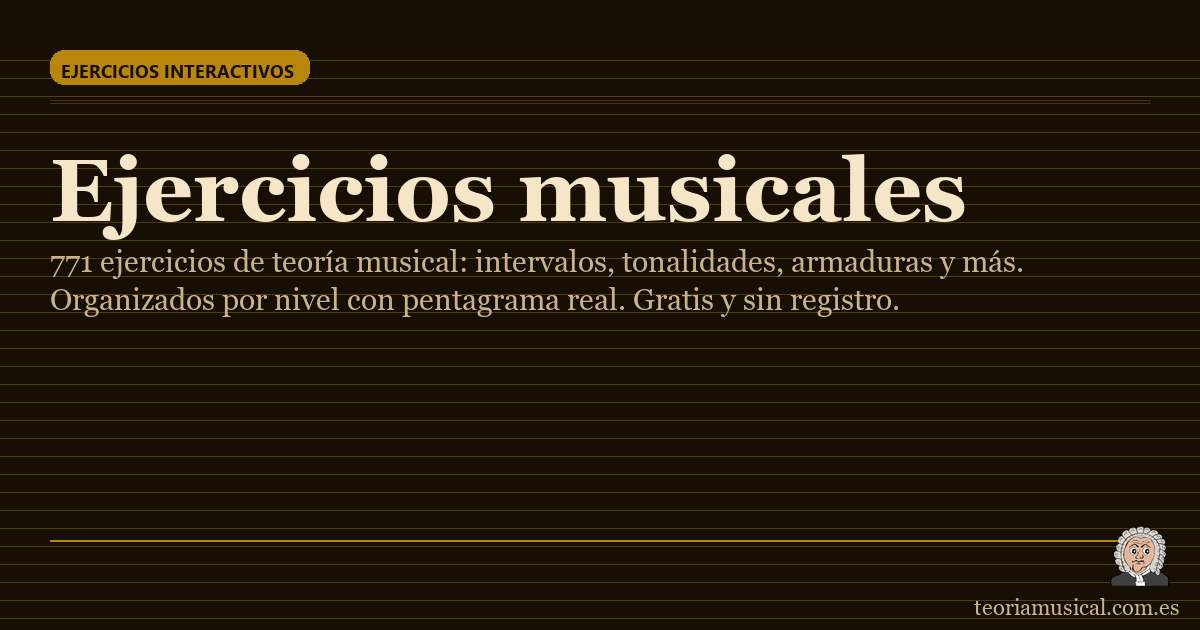
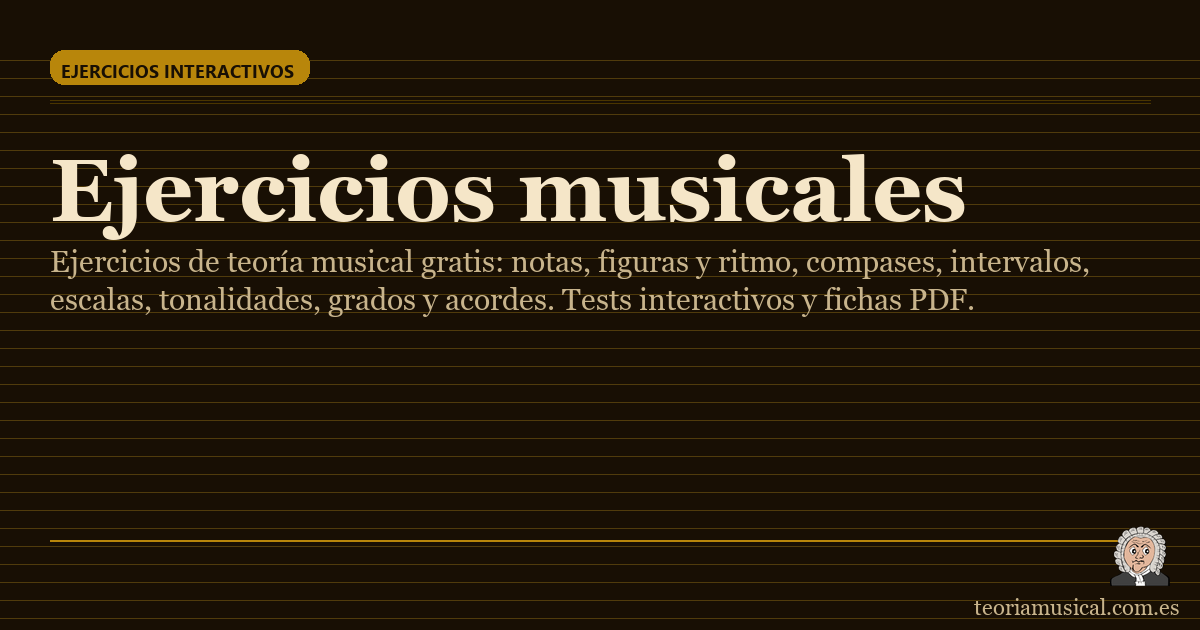
ejercicios

Changed region(s): [[0.0308, 0.3921, 0.8942, 0.5127]]

diff --git a/ejercicios/index.html b/ejercicios/index.html
@@ -3,11 +3,11 @@
 <head>
 <meta charset="utf-8">
 <meta name="viewport" content="width=device-width, initial-scale=1">
-<title>Ejercicios de Teoría Musical | 771 Tests Interactivos | Teoría Musical</title>
-<meta name="description" content="771 ejercicios de teoría musical: intervalos, tonalidades, armaduras y más. Organizados por nivel con pentagrama real. Gratis y sin registro.">
+<title>Ejercicios de Teoría Musical | Tests Online y Fichas PDF</title>
+<meta name="description" content="Ejercicios de teoría musical gratis: notas, figuras y ritmo, compases, intervalos, escalas, tonalidades, grados y acordes. Tests interactivos y fichas PDF.">
 <link rel="canonical" href="https://www.teoriamusical.com.es/ejercicios/">
-<meta property="og:title" content="Ejercicios de Teoría Musical | 771 Tests Interactivos | Teoría Musical">
-<meta property="og:description" content="771 ejercicios de teoría musical: intervalos, tonalidades, armaduras y más. Organizados por nivel con pentagrama real. Gratis y sin registro.">
+<meta property="og:title" content="Ejercicios de Teoría Musical | Tests Online y Fichas PDF">
+<meta property="og:description" content="Ejercicios de teoría musical gratis: notas, figuras y ritmo, compases, intervalos, escalas, tonalidades, grados y acordes. Tests interactivos y fichas PDF.">
 <meta property="og:image" content="https://www.teoriamusical.com.es/assets/img/og-pages/og-ejercicios.png">
 <meta property="og:type" content="website">
 <meta property="og:url" content="https://www.teoriamusical.com.es/ejercicios/">
@@ -15,8 +15,8 @@
 <meta property="og:site_name" content="Teoría Musical">
 <meta name="robots" content="index, follow, max-snippet:-1, max-image-preview:large, max-video-preview:-1">
 <meta name="twitter:card" content="summary_large_image">
-<meta name="twitter:title" content="Ejercicios de Teoría Musical | 771 Tests Interactivos | Teoría Musical">
-<meta name="twitter:description" content="771 ejercicios de teoría musical: intervalos, tonalidades, armaduras y más. Organizados por nivel con pentagrama real. Gratis y sin registro.">
+<meta name="twitter:title" content="Ejercicios de Teoría Musical | Tests Online y Fichas PDF">
+<meta name="twitter:description" content="Ejercicios de teoría musical gratis: notas, figuras y ritmo, compases, intervalos, escalas, tonalidades, grados y acordes. Tests interactivos y fichas PDF.">
 <meta name="twitter:image" content="https://www.teoriamusical.com.es/assets/img/og-pages/og-ejercicios.png">
 <link rel="icon" href="/assets/img/favicon.png" type="image/png">
 
@@ -58,16 +58,16 @@
 
 
 <script type="application/ld+json">
-{"@context":"https://schema.org","@type":"LearningResource","name":"Ejercicios de Teoría Musical","description":"771 ejercicios de teoría musical: intervalos, tonalidades, armaduras y más. Organizados por nivel con pentagrama real. Gratis y sin registro.","url":"https://www.teoriamusical.com.es/ejercicios/","educationalLevel":"beginner","inLanguage":"es","isAccessibleForFree":true,"teaches":"Practicar los contenidos del grado elemental de conservatorio: intervalos, tonalidades, escalas y acordes.","datePublished":"2026-04-17","dateModified":"2026-05-29","provider":{"@type":"Organization","name":"Teoría Musical","url":"https://www.teoriamusical.com.es"}}
+{"@context":"https://schema.org","@type":"LearningResource","name":"Ejercicios de Teoría Musical","description":"Ejercicios de teoría musical gratis: notas, figuras y ritmo, compases, intervalos, escalas, tonalidades, grados y acordes. Tests interactivos y fichas PDF.","url":"https://www.teoriamusical.com.es/ejercicios/","educationalLevel":"beginner","inLanguage":"es","isAccessibleForFree":true,"teaches":"Practicar los contenidos del grado elemental de conservatorio: lectura de notas, figuras y ritmo, compases, intervalos, escalas, tonalidades, grados y acordes.","datePublished":"2026-04-17","dateModified":"2026-09-15","provider":{"@type":"Organization","name":"Teoría Musical","url":"https://www.teoriamusical.com.es"}}
 </script>
 <script type="application/ld+json">
 {"@context":"https://schema.org","@type":"BreadcrumbList","itemListElement":[{"@type":"ListItem","position":1,"name":"Inicio","item":"https://www.teoriamusical.com.es/"},{"@type":"ListItem","position":2,"name":"Ejercicios","item":"https://www.teoriamusical.com.es/ejercicios/"}]}
 </script>
 <script type="application/ld+json">
-{"@context":"https://schema.org","@type":"FAQPage","mainEntity":[{"@type":"Question","name":"¿Para qué nivel son los ejercicios de teoría musical?","acceptedAnswer":{"@type":"Answer","text":"La colección cubre desde el nivel elemental hasta el avanzado. Los ejercicios de semitonos, intervalos de segunda y tercera son el punto de partida ideal para principiantes. Los de análisis armónico, escalas mixtas y tonalidades vecinas están orientados a estudiantes de conservatorio de grado medio."}},{"@type":"Question","name":"¿Cuántos ejercicios de teoría musical hay disponibles?","acceptedAnswer":{"@type":"Answer","text":"Hay 771 ejercicios interactivos distribuidos entre cinco bloques temáticos: intervalos musicales, tonalidades y armaduras, acordes (tríadas), escalas mayores y menores, y análisis de compases. Todos son gratuitos y se realizan directamente en el navegador sin instalación."}},{"@type":"Question","name":"¿En qué orden debo hacer los ejercicios de teoría musical?","acceptedAnswer":{"@type":"Answer","text":"Lo recomendable es seguir este orden: primero intervalos (empezando por semitonos y segundas), luego tonalidades y armaduras, después acordes y tríadas, y finalmente escalas. Este orden respeta la progresión natural del solfeo y la armonía tonal."}},{"@type":"Question","name":"¿Los ejercicios incluyen pentagrama real?","acceptedAnswer":{"@type":"Answer","text":"Sí. Todos los ejercicios de intervalos, escalas y armaduras utilizan un pentagrama renderizado en tiempo real con VexFlow, el estándar de notación musical en web. Las notas se muestran exactamente como aparecerían en una partitura impresa, con claves y alteraciones correctas."}},{"@type":"Question","name":"¿Para qué sirven los ejercicios de intervalos musicales?","acceptedAnswer":{"@type":"Answer","text":"Los intervalos musicales son la unidad básica de la armonía: cada acorde, escala y progresión se construye apilando intervalos. Practicar a identificar y construir intervalos de manera automática es la habilidad fundamental que acelera el aprendizaje de todo lo demás: escalas, acordes, análisis y composición."}}]}
+{"@context":"https://schema.org","@type":"FAQPage","mainEntity":[{"@type":"Question","name":"¿Para qué nivel son los ejercicios de teoría musical?","acceptedAnswer":{"@type":"Answer","text":"La colección cubre desde el nivel elemental hasta el avanzado. Los de lectura y escritura de notas y los de figuras y ritmo son el punto de partida para principiantes. Los de escalas mixtas y tonalidades vecinas están orientados a estudiantes de conservatorio de grado medio."}},{"@type":"Question","name":"¿Cuántos ejercicios de teoría musical hay disponibles?","acceptedAnswer":{"@type":"Answer","text":"Hay ejercicios interactivos en ocho bloques: notas (leer, escribir y equivalencias en inglés y alemán), figuras y ritmo, compases, intervalos, escalas, tonalidades y armaduras, grados de la escala y acordes. Muchos tienen además fichas en PDF con soluciones. Todos son gratuitos y funcionan directamente en el navegador, sin instalación."}},{"@type":"Question","name":"¿En qué orden debo hacer los ejercicios?","acceptedAnswer":{"@type":"Answer","text":"El de esta página, de lo básico a lo avanzado: primero leer y escribir notas, después figuras y ritmo y compases, luego intervalos, escalas y tonalidades, y al final grados y acordes. Cada bloque se apoya en el anterior: sin leer notas no se calculan intervalos, y sin intervalos no se construyen escalas ni acordes."}},{"@type":"Question","name":"¿Los ejercicios incluyen pentagrama real?","acceptedAnswer":{"@type":"Answer","text":"Sí. Los ejercicios de notas, figuras, intervalos, escalas, armaduras, grados y acordes muestran un pentagrama renderizado en tiempo real con VexFlow. Las notas aparecen exactamente como en una partitura impresa, con claves y alteraciones correctas."}},{"@type":"Question","name":"¿Para qué sirven los ejercicios de intervalos musicales?","acceptedAnswer":{"@type":"Answer","text":"Los intervalos son la unidad básica de la armonía: todo acorde, escala y progresión se construye apilando intervalos. Dominarlos automáticamente acelera el aprendizaje de escalas, acordes, análisis y composición."}}]}
 </script>
 <script type="application/ld+json">
-{"@context":"https://schema.org","@type":"HowTo","name":"Cómo practicar teoría musical con los ejercicios interactivos","step":[{"@type":"HowToStep","name":"Elegir el bloque temático adecuado al nivel","text":"Seleccionar el bloque que se está estudiando: intervalos, tonalidades y armaduras, acordes, escalas o compases. Los bloques son independientes y cada uno tiene ejercicios ordenados de menor a mayor dificultad."},{"@type":"HowToStep","name":"Empezar por el nivel básico del bloque","text":"Dentro de cada bloque comenzar con los ejercicios más sencillos: en intervalos, las segundas y terceras; en tonalidades, las armaduras con 1 o 2 alteraciones; en acordes, posición fundamental. Dominar el nivel básico antes de avanzar."},{"@type":"HowToStep","name":"Leer el pentagrama y seleccionar la respuesta","text":"Observar las notas en el pentagrama, aplicar la regla correspondiente (contar semitonos, leer la armadura, identificar la tríada) y seleccionar la opción correcta. El ejercicio proporciona retroalimentación inmediata."},{"@type":"HowToStep","name":"Repetir hasta la automatización y subir de nivel","text":"Repetir cada tipo de ejercicio hasta responder correctamente de forma automática. Una vez dominado un nivel, pasar al siguiente: más alteraciones, intervalos mayores o escalas con variantes, hasta completar todos los ejercicios del bloque."}]}
+{"@context":"https://schema.org","@type":"HowTo","name":"Cómo practicar teoría musical con los ejercicios interactivos","step":[{"@type":"HowToStep","name":"Elegir el bloque temático adecuado al nivel","text":"Seleccionar el bloque que se está estudiando: notas, figuras y ritmo, compases, intervalos, escalas, tonalidades y armaduras, grados o acordes. Los bloques son independientes y cada uno tiene ejercicios ordenados de menor a mayor dificultad."},{"@type":"HowToStep","name":"Empezar por el nivel básico del bloque","text":"Dentro de cada bloque comenzar con los ejercicios más sencillos: en intervalos, las segundas y terceras; en tonalidades, las armaduras con 1 o 2 alteraciones; en acordes, posición fundamental. Dominar el nivel básico antes de avanzar."},{"@type":"HowToStep","name":"Leer el pentagrama y seleccionar la respuesta","text":"Observar las notas en el pentagrama, aplicar la regla correspondiente (contar semitonos, leer la armadura, identificar la tríada) y seleccionar la opción correcta. El ejercicio proporciona retroalimentación inmediata."},{"@type":"HowToStep","name":"Repetir hasta la automatización y subir de nivel","text":"Repetir cada tipo de ejercicio hasta responder correctamente de forma automática. Una vez dominado un nivel, pasar al siguiente: más alteraciones, intervalos mayores o escalas con variantes, hasta completar todos los ejercicios del bloque."}]}
 </script>
 </head>
 <body class="tm-page">
@@ -203,45 +203,9 @@
 </style>
 
 <h1>Ejercicios musicales</h1>
-<p>Una colección de <strong>771 test interactivos</strong> diseñados para todos los niveles de análisis musical.</p>
+<p>Ejercicios interactivos de teoría musical <strong>ordenados de lo básico a lo avanzado</strong>: empieza por las notas y el ritmo, y sigue con los intervalos, las escalas, las tonalidades y los acordes. Muchos tienen además ficha en PDF con soluciones para imprimir.</p>
 
   <section class="ej-cards">
-
-    <div class="ej-card">
-      <div class="ej-card-icon" style="background:#8b6914">
-        <svg fill="white" width="30" height="30" viewBox="0 0 24 24"><path d="M12 3v10.55c-.59-.34-1.27-.55-2-.55-2.21 0-4 1.79-4 4s1.79 4 4 4 4-1.79 4-4V7h4V3h-6z"/></svg>
-      </div>
-      <h2>Intervalos Musicales</h2>
-      <p>La base de la armonía. Identificación de segundas, terceras y octavas con precisión.</p>
-      <a href="/ejercicios/ejercicios-de-intervalos-musicales/" class="ej-btn" style="background: #2a7a6e;">Abrir Sección de Intervalos</a>
-    </div>
-
-    <div class="ej-card">
-      <div class="ej-card-icon" style="background:#2a7a6e">
-        <svg fill="white" width="30" height="30" viewBox="0 0 24 24"><path d="M11 18V6l-8 5v5l8-3ZM12 6v12l8-5v-5l-8 3z"/></svg>
-      </div>
-<h2>Tonalidad y Armaduras</h2>
-      <p>Identificación de tonalidades y dibujo de armaduras correctamente en el pentagrama.</p>
-      <a href="/ejercicios/tonalidades/" class="ej-btn" style="background: #8b6914;">Ver Test de Armaduras</a>
-    </div>
-
-    <div class="ej-card">
-      <div class="ej-card-icon" style="background:#1a6b5a">
-        <svg fill="white" width="30" height="30" viewBox="0 0 24 24"><path d="M17 12h-5v5h5v-5zM16 1v2H8V1H6v2H5c-1.11 0-1.99.9-1.99 2L3 19c0 1.1.89 2 2 2h14c1.1 0 2-.9 2-2V5c0-1.1-.9-2-2-2h-1V1h-2zm3 18H5V8h14v11z"/></svg>
-      </div>
-      <h2>Tonalidades Vecinas</h2>
-      <p>Ejercicios para identificar las 5 tonalidades vecinas de cualquier tonalidad mayor o menor y determinar si dos tonalidades son vecinas o lejanas.</p>
-      <a href="/ejercicios/tonalidades/tonalidades-vecinas/" class="ej-btn" style="background: #1a6b5a;">Ver Ejercicios de Vecinas</a>
-    </div>
-
-    <div class="ej-card">
-      <div class="ej-card-icon" style="background:#4a3070">
-        <svg fill="white" width="30" height="30" viewBox="0 0 24 24"><path d="M12 3v10.55c-.59-.34-1.27-.55-2-.55-2.21 0-4 1.79-4 4s1.79 4 4 4 4-1.79 4-4V7h4V3h-6z"/><circle cx="8" cy="19" r="2" fill="white" opacity="0.6"/><circle cx="16" cy="7" r="1.5" fill="white" opacity="0.6"/></svg>
-      </div>
-      <h2>Acordes</h2>
-      <p>Identificación de tríadas en el pentagrama: Mayor, menor, Disminuida y Aumentada. La base de toda la armonía tonal.</p>
-      <a href="/ejercicios/acordes/" class="ej-btn" style="background: #4a3070;">Ver Ejercicios de Acordes</a>
-    </div>
 
     <div class="ej-card">
       <div class="ej-card-icon" style="background:#2e7d32">
@@ -271,12 +235,12 @@
     </div>
 
     <div class="ej-card">
-      <div class="ej-card-icon" style="background:#1a6b8a">
-        <svg fill="white" width="30" height="30" viewBox="0 0 24 24"><path d="M12 3v10.55c-.59-.34-1.27-.55-2-.55-2.21 0-4 1.79-4 4s1.79 4 4 4 4-1.79 4-4V7h4V3h-6z"/></svg>
+      <div class="ej-card-icon" style="background:#2d5a3d">
+        <svg fill="white" width="30" height="30" viewBox="0 0 24 24"><ellipse cx="7" cy="18" rx="3.2" ry="2.3" transform="rotate(-20 7 18)"/><rect x="9.4" y="4" width="1.6" height="14"/><ellipse cx="17" cy="16" rx="3.2" ry="2.3" transform="rotate(-20 17 16)"/><rect x="19.4" y="2" width="1.6" height="14"/><polygon points="9.4,4 21,2 21,5 9.4,7"/></svg>
       </div>
-      <h2>Escalas</h2>
-      <p>Identificación de escalas mayores naturales, mixtas principales y mixtas secundarias en el pentagrama, con armadura o con alteraciones.</p>
-      <a href="/ejercicios/escalas/" class="ej-btn" style="background: #1a6b8a;">Ver Ejercicios de Escalas</a>
+      <h2>Figuras y Ritmo</h2>
+      <p>Identificar figuras y silencios, equivalencias, cuánto vale cada figura en 2/4, 3/4, 4/4, 6/8, 9/8 y 12/8, sumar compases y ligaduras. Con fichas en PDF.</p>
+      <a href="/ejercicios/figuras/" class="ej-btn" style="background: #2d5a3d;">Ver Ejercicios de Ritmo</a>
     </div>
 
     <div class="ej-card">
@@ -289,12 +253,39 @@
     </div>
 
     <div class="ej-card">
-      <div class="ej-card-icon" style="background:#2d5a3d">
-        <svg fill="white" width="30" height="30" viewBox="0 0 24 24"><ellipse cx="7" cy="18" rx="3.2" ry="2.3" transform="rotate(-20 7 18)"/><rect x="9.4" y="4" width="1.6" height="14"/><ellipse cx="17" cy="16" rx="3.2" ry="2.3" transform="rotate(-20 17 16)"/><rect x="19.4" y="2" width="1.6" height="14"/><polygon points="9.4,4 21,2 21,5 9.4,7"/></svg>
+      <div class="ej-card-icon" style="background:#8b6914">
+        <svg fill="white" width="30" height="30" viewBox="0 0 24 24"><path d="M12 3v10.55c-.59-.34-1.27-.55-2-.55-2.21 0-4 1.79-4 4s1.79 4 4 4 4-1.79 4-4V7h4V3h-6z"/></svg>
       </div>
-      <h2>Figuras y Ritmo</h2>
-      <p>Identificar figuras y silencios, equivalencias, cuánto vale cada figura en 2/4, 3/4, 4/4, 6/8, 9/8 y 12/8, sumar compases y ligaduras. Con fichas en PDF.</p>
-      <a href="/ejercicios/figuras/" class="ej-btn" style="background: #2d5a3d;">Ver Ejercicios de Ritmo</a>
+      <h2>Intervalos Musicales</h2>
+      <p>La base de la armonía. Identificación de segundas, terceras y octavas con precisión.</p>
+      <a href="/ejercicios/ejercicios-de-intervalos-musicales/" class="ej-btn" style="background: #2a7a6e;">Abrir Sección de Intervalos</a>
+    </div>
+
+    <div class="ej-card">
+      <div class="ej-card-icon" style="background:#1a6b8a">
+        <svg fill="white" width="30" height="30" viewBox="0 0 24 24"><path d="M12 3v10.55c-.59-.34-1.27-.55-2-.55-2.21 0-4 1.79-4 4s1.79 4 4 4 4-1.79 4-4V7h4V3h-6z"/></svg>
+      </div>
+      <h2>Escalas</h2>
+      <p>Identificación de escalas mayores naturales, mixtas principales y mixtas secundarias en el pentagrama, con armadura o con alteraciones.</p>
+      <a href="/ejercicios/escalas/" class="ej-btn" style="background: #1a6b8a;">Ver Ejercicios de Escalas</a>
+    </div>
+
+    <div class="ej-card">
+      <div class="ej-card-icon" style="background:#2a7a6e">
+        <svg fill="white" width="30" height="30" viewBox="0 0 24 24"><path d="M11 18V6l-8 5v5l8-3ZM12 6v12l8-5v-5l-8 3z"/></svg>
+      </div>
+<h2>Tonalidad y Armaduras</h2>
+      <p>Identificación de tonalidades y dibujo de armaduras correctamente en el pentagrama.</p>
+      <a href="/ejercicios/tonalidades/" class="ej-btn" style="background: #8b6914;">Ver Test de Armaduras</a>
+    </div>
+
+    <div class="ej-card">
+      <div class="ej-card-icon" style="background:#1a6b5a">
+        <svg fill="white" width="30" height="30" viewBox="0 0 24 24"><path d="M17 12h-5v5h5v-5zM16 1v2H8V1H6v2H5c-1.11 0-1.99.9-1.99 2L3 19c0 1.1.89 2 2 2h14c1.1 0 2-.9 2-2V5c0-1.1-.9-2-2-2h-1V1h-2zm3 18H5V8h14v11z"/></svg>
+      </div>
+      <h2>Tonalidades Vecinas</h2>
+      <p>Ejercicios para identificar las 5 tonalidades vecinas de cualquier tonalidad mayor o menor y determinar si dos tonalidades son vecinas o lejanas.</p>
+      <a href="/ejercicios/tonalidades/tonalidades-vecinas/" class="ej-btn" style="background: #1a6b5a;">Ver Ejercicios de Vecinas</a>
     </div>
 
     <div class="ej-card">
@@ -304,6 +295,15 @@
       <h2>Grados de la Escala</h2>
       <p>Qué grado ocupa una nota en su tonalidad y cómo se llama, y el ejercicio inverso. Con mayores y menores, para distinguir la sensible de la subtónica.</p>
       <a href="/diccionario-musical/nombres-de-los-grados-de-la-escala/#tmgrados1" class="ej-btn" style="background: #6b5010;">Ver Ejercicios de Grados</a>
+    </div>
+
+    <div class="ej-card">
+      <div class="ej-card-icon" style="background:#4a3070">
+        <svg fill="white" width="30" height="30" viewBox="0 0 24 24"><path d="M12 3v10.55c-.59-.34-1.27-.55-2-.55-2.21 0-4 1.79-4 4s1.79 4 4 4 4-1.79 4-4V7h4V3h-6z"/><circle cx="8" cy="19" r="2" fill="white" opacity="0.6"/><circle cx="16" cy="7" r="1.5" fill="white" opacity="0.6"/></svg>
+      </div>
+      <h2>Acordes</h2>
+      <p>Identificación de tríadas en el pentagrama: Mayor, menor, Disminuida y Aumentada. La base de toda la armonía tonal.</p>
+      <a href="/ejercicios/acordes/" class="ej-btn" style="background: #4a3070;">Ver Ejercicios de Acordes</a>
     </div>
 
     <div class="ej-card">
@@ -326,19 +326,19 @@
 <div class="tm-faq-list">
     <div class="tm-faq-item">
       <div class="tm-faq-q">¿Para qué nivel son los ejercicios de teoría musical?</div>
-      <div class="tm-faq-a">La colección cubre desde el nivel elemental hasta el avanzado. Los ejercicios de semitonos, intervalos de segunda y tercera son ideales para principiantes. Los de escalas mixtas y tonalidades vecinas están orientados a estudiantes de conservatorio de grado medio.</div>
+      <div class="tm-faq-a">La colección cubre desde el nivel elemental hasta el avanzado. Los de lectura y escritura de notas y los de figuras y ritmo son el punto de partida para principiantes. Los de escalas mixtas y tonalidades vecinas están orientados a estudiantes de conservatorio de grado medio.</div>
     </div>
     <div class="tm-faq-item">
       <div class="tm-faq-q">¿Cuántos ejercicios de teoría musical hay disponibles?</div>
-      <div class="tm-faq-a">Hay 771 ejercicios interactivos repartidos en cinco bloques: intervalos musicales, tonalidades y armaduras, acordes, escalas mayores y menores, y análisis de compases. Todos son gratuitos y funcionan directamente en el navegador, sin instalación.</div>
+      <div class="tm-faq-a">Hay ejercicios interactivos en ocho bloques: notas (leer, escribir y equivalencias en inglés y alemán), figuras y ritmo, compases, intervalos, escalas, tonalidades y armaduras, grados de la escala y acordes. Muchos tienen además fichas en PDF con soluciones. Todos son gratuitos y funcionan directamente en el navegador, sin instalación.</div>
     </div>
     <div class="tm-faq-item">
       <div class="tm-faq-q">¿En qué orden debo hacer los ejercicios?</div>
-      <div class="tm-faq-a">El orden recomendado es: primero intervalos (empezando por semitonos y segundas), luego tonalidades y armaduras, después acordes y tríadas, y finalmente escalas. Este orden respeta la progresión natural del solfeo y la armonía tonal.</div>
+      <div class="tm-faq-a">El de esta página, de lo básico a lo avanzado: primero leer y escribir notas, después figuras y ritmo y compases, luego intervalos, escalas y tonalidades, y al final grados y acordes. Cada bloque se apoya en el anterior: sin leer notas no se calculan intervalos, y sin intervalos no se construyen escalas ni acordes.</div>
     </div>
     <div class="tm-faq-item">
       <div class="tm-faq-q">¿Los ejercicios incluyen pentagrama real?</div>
-      <div class="tm-faq-a">Sí. Todos los ejercicios de intervalos, escalas y armaduras muestran un pentagrama renderizado en tiempo real con VexFlow. Las notas aparecen exactamente como en una partitura impresa, con claves y alteraciones correctas.</div>
+      <div class="tm-faq-a">Sí. Los ejercicios de notas, figuras, intervalos, escalas, armaduras, grados y acordes muestran un pentagrama renderizado en tiempo real con VexFlow. Las notas aparecen exactamente como en una partitura impresa, con claves y alteraciones correctas.</div>
     </div>
     <div class="tm-faq-item">
       <div class="tm-faq-q">¿Para qué sirven los ejercicios de intervalos musicales?</div>
